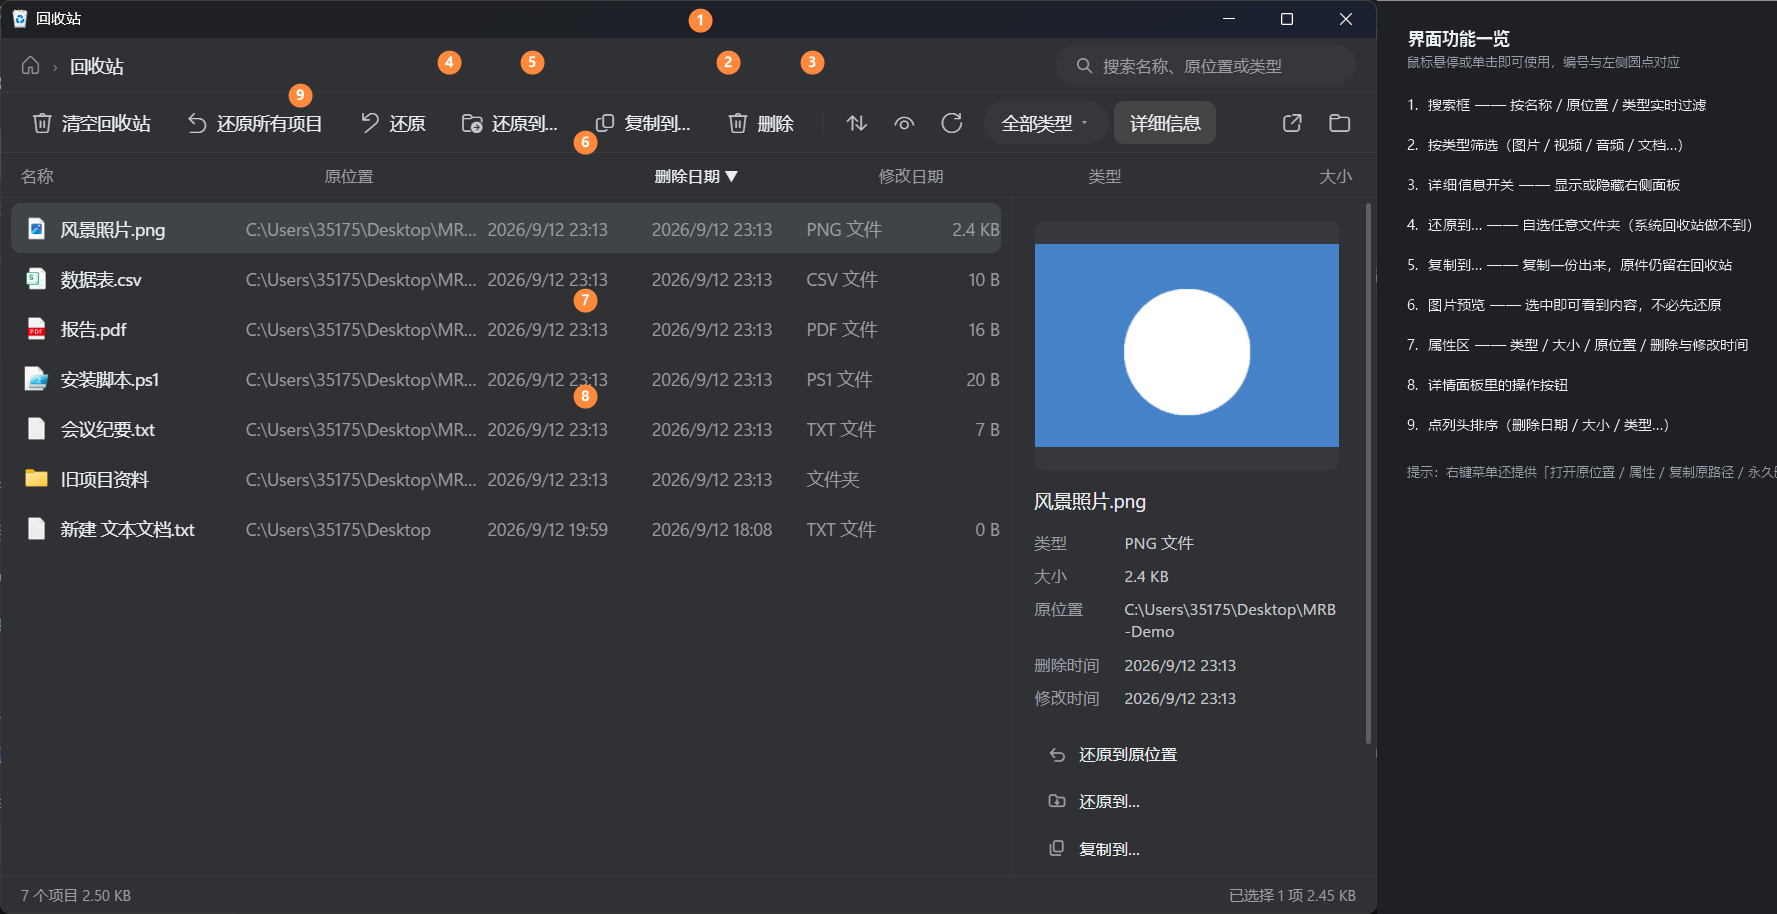
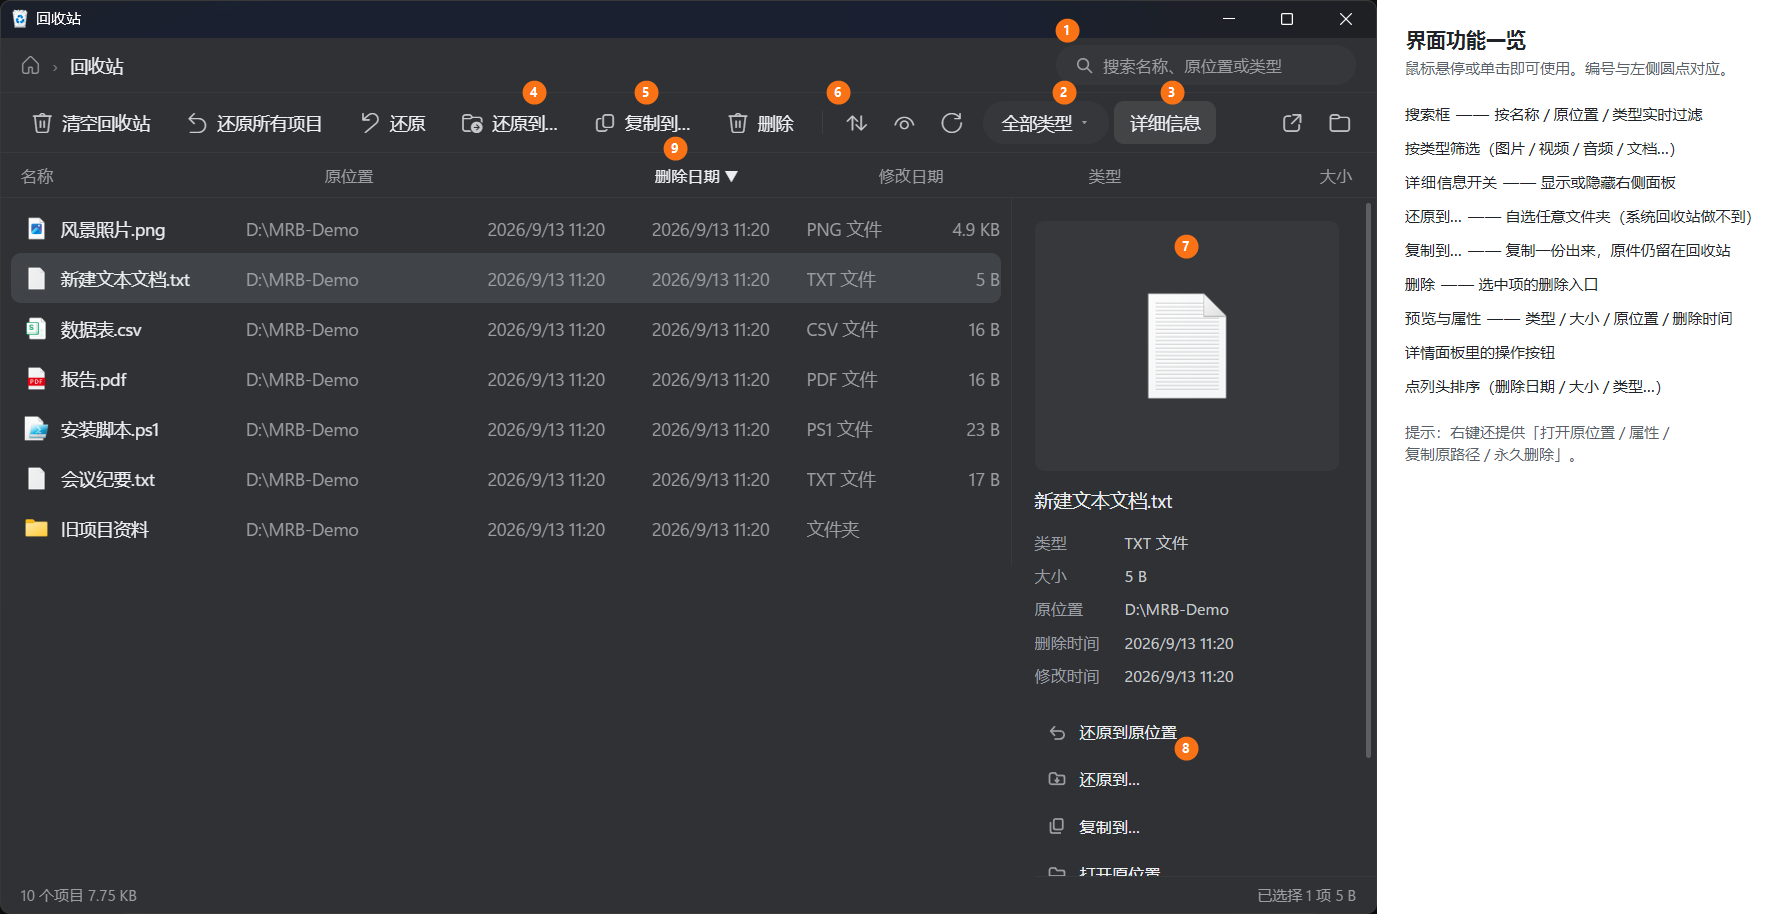
polish: two-level title bar, re-shot screenshots at 1.2.0
The app name and version sat in one flat grey line; the name is now brighter and the version recedes. Every README image is rebuilt: the installer shot still said 1.0.0, and both the main-window shot and the annotated shot carried C:\Users\<name> through the original-location column and the details pane. The demo data now lives in D:\MRB-Demo and the annotated panel is redrawn on the clean capture.

diff --git a/installer/Setup.cs b/installer/Setup.cs
@@ -27,7 +27,7 @@ using Microsoft.Win32;
 internal static class Program
 {
     internal const string AppName = "Modern Recycle Bin";
-    internal const string Version = "1.1.0";
+    internal const string Version = "1.2.0";
     internal const string Clsid = "{645FF040-5081-101B-9F08-00AA002F954E}";
 
     /// <summary>True in --silent / /S mode: no dialogs at all.</summary>
@@ -607,8 +607,15 @@ internal sealed class SetupForm : Form
         using (var b = new LinearGradientBrush(new Rectangle(cx - r, cy - r, r * 2, r * 2), Theme.AccentHi, Theme.Accent, 45f))
             g.FillPath(b, p);
 
-        TextRenderer.DrawText(g, Program.AppName + "  " + Program.Version, _fSmall,
-            new Point(cx + S(18), cy - S(8)), Theme.InkFaint, TextFormatFlags.NoPadding);
+        // The app name carries the brand, the version is reference data - two
+        // weights, so the eye lands on the name first instead of reading one
+        // flat grey line.
+        int tx = cx + S(18), ty = cy - S(8);
+        TextRenderer.DrawText(g, Program.AppName, _fSmall, new Point(tx, ty), Theme.InkDim, TextFormatFlags.NoPadding);
+        Size nameSize = TextRenderer.MeasureText(g, Program.AppName, _fSmall,
+            new Size(int.MaxValue, int.MaxValue), TextFormatFlags.NoPadding);
+        TextRenderer.DrawText(g, Program.Version, _fSmall,
+            new Point(tx + nameSize.Width + S(8), ty), Theme.InkFaint, TextFormatFlags.NoPadding);
 
         var box = CloseRect;
         if (_hover == 2)

diff --git a/docs/RELEASE-NOTES-v1.2.0.md b/docs/RELEASE-NOTES-v1.2.0.md
@@ -1,0 +1,31 @@
+## Modern Recycle Bin 1.2.0 — installing it is now one line
+
+### New
+
+**A one-click install path, built for networks where `github.com` does not
+answer.** Paste this into PowerShell and it fetches the newest release and starts
+it:
+
+```powershell
+irm https://ghfast.top/https://raw.githubusercontent.com/Dannyzzy/Modern-Recycle-Bin/main/Install-ModernRecycleBin.cmd -OutFile "$env:TEMP\mrb-install.cmd"; & "$env:TEMP\mrb-install.cmd"
+```
+
+What makes it worth having rather than just a download link:
+
+- **It downloads through PowerShell, not `curl`.** An accelerator sets a Windows
+  proxy that `curl` ignores — so "the browser opens GitHub, but the download times
+  out at 0 bytes" is a real state on a real machine. Measured here, not guessed.
+- **Direct first, then the [ghfast.top](https://ghfast.top) mirror**, so it works
+  with or without an accelerator.
+- **The download is size-checked.** A truncated transfer or an error page never
+  reaches the installer pretending to be one.
+- **It never fails quietly.** When both channels fail it prints every address it
+  tried, plus the manual steps.
+
+### Changed
+
+- **The title bar now reads as two levels.** The app name and the version number
+  used to sit in one flat grey line; the name is now brighter and the version
+  recedes, so the eye lands on the brand first.
+- Screenshots in the README are re-shot at this version — the published installer
+  screenshot still said 1.0.0.
